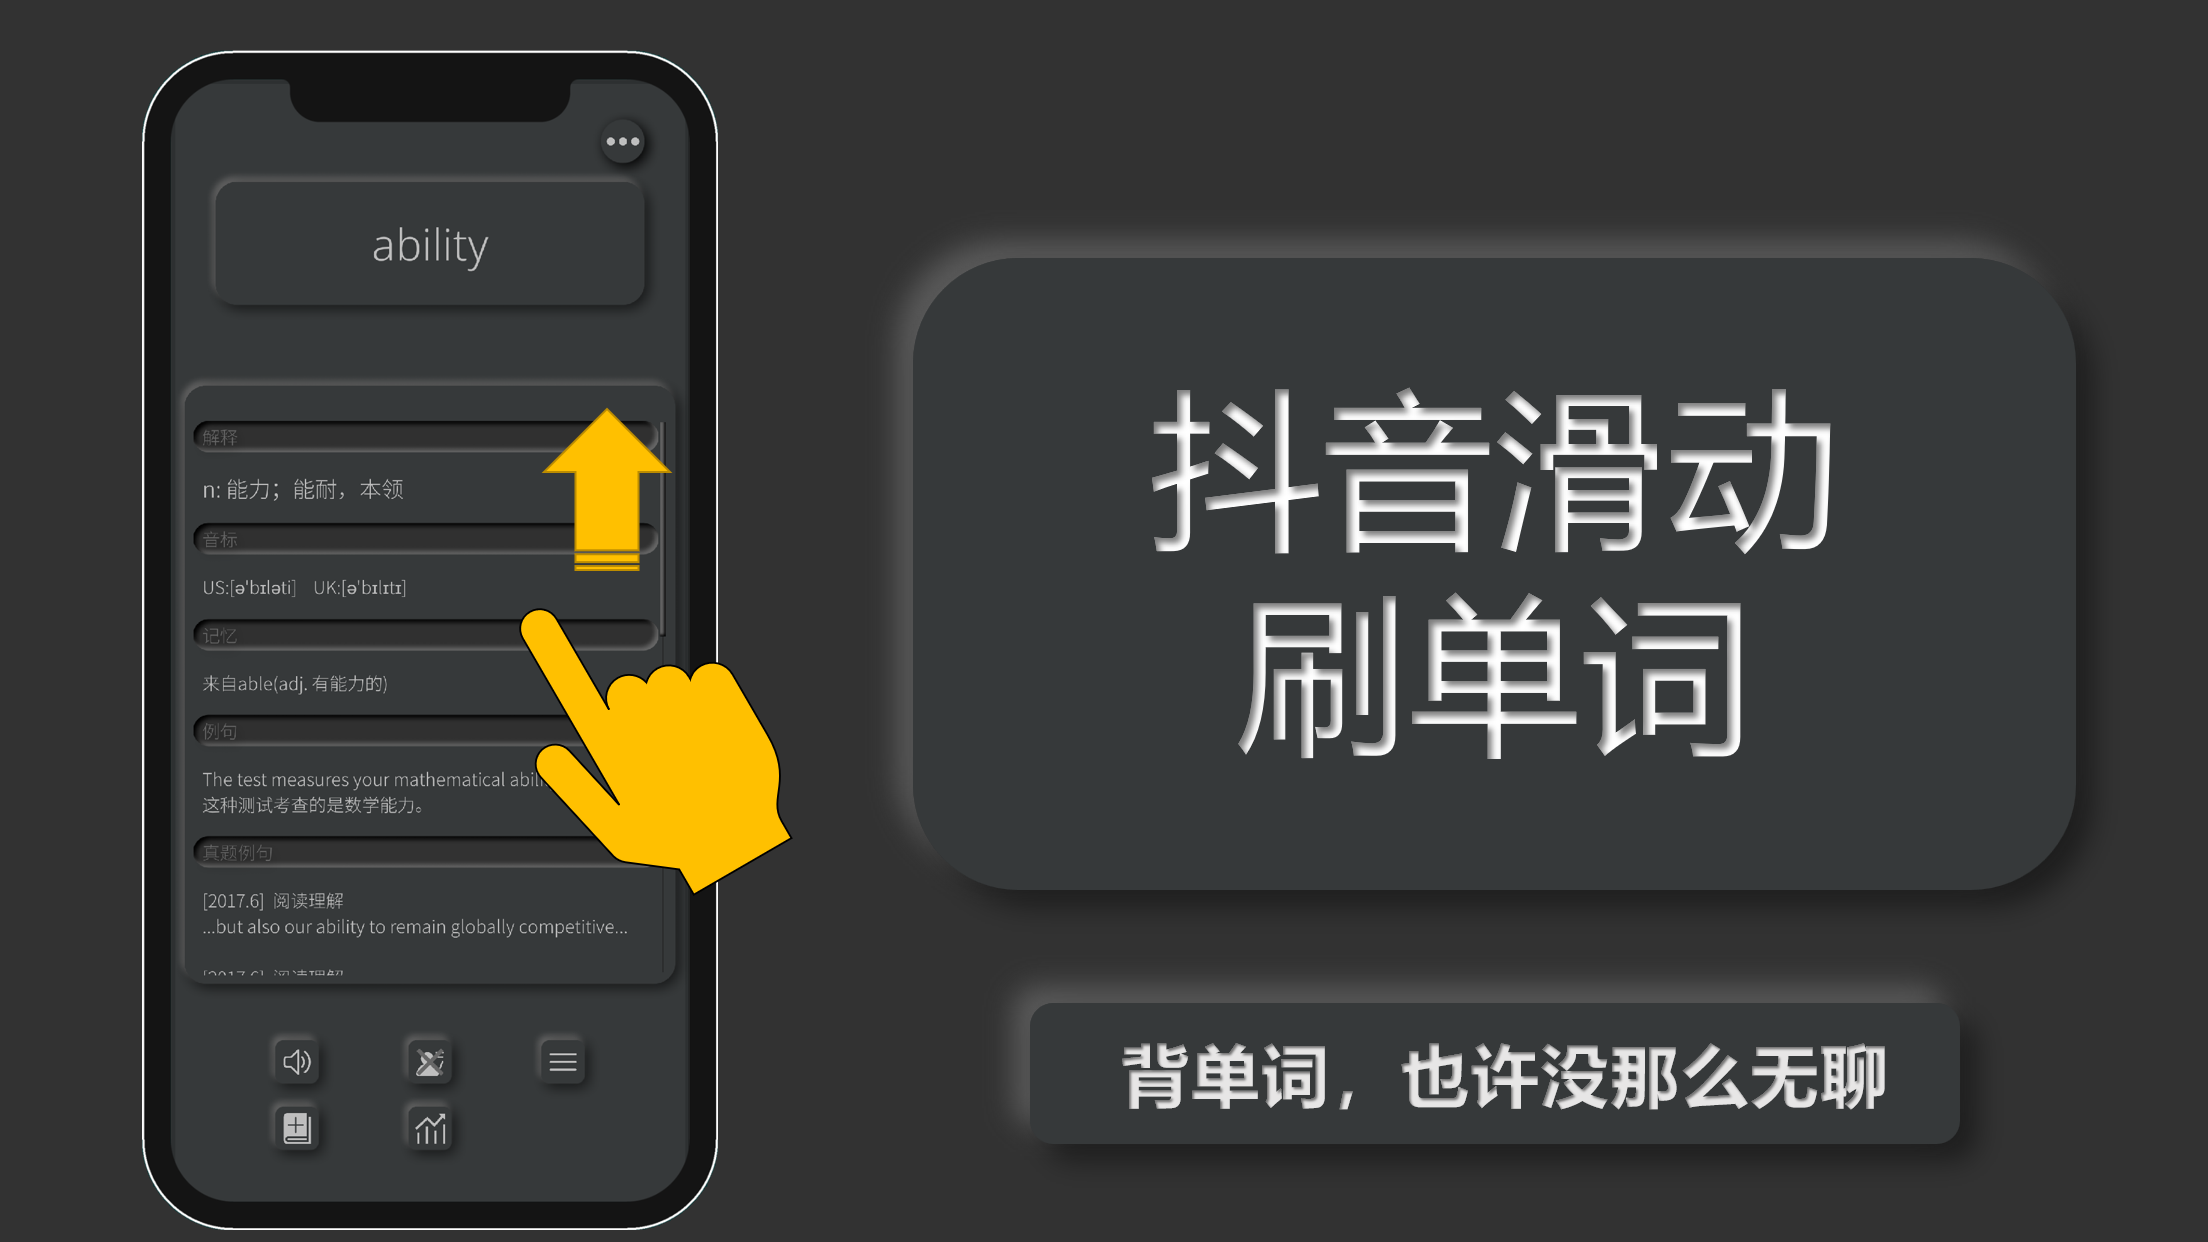
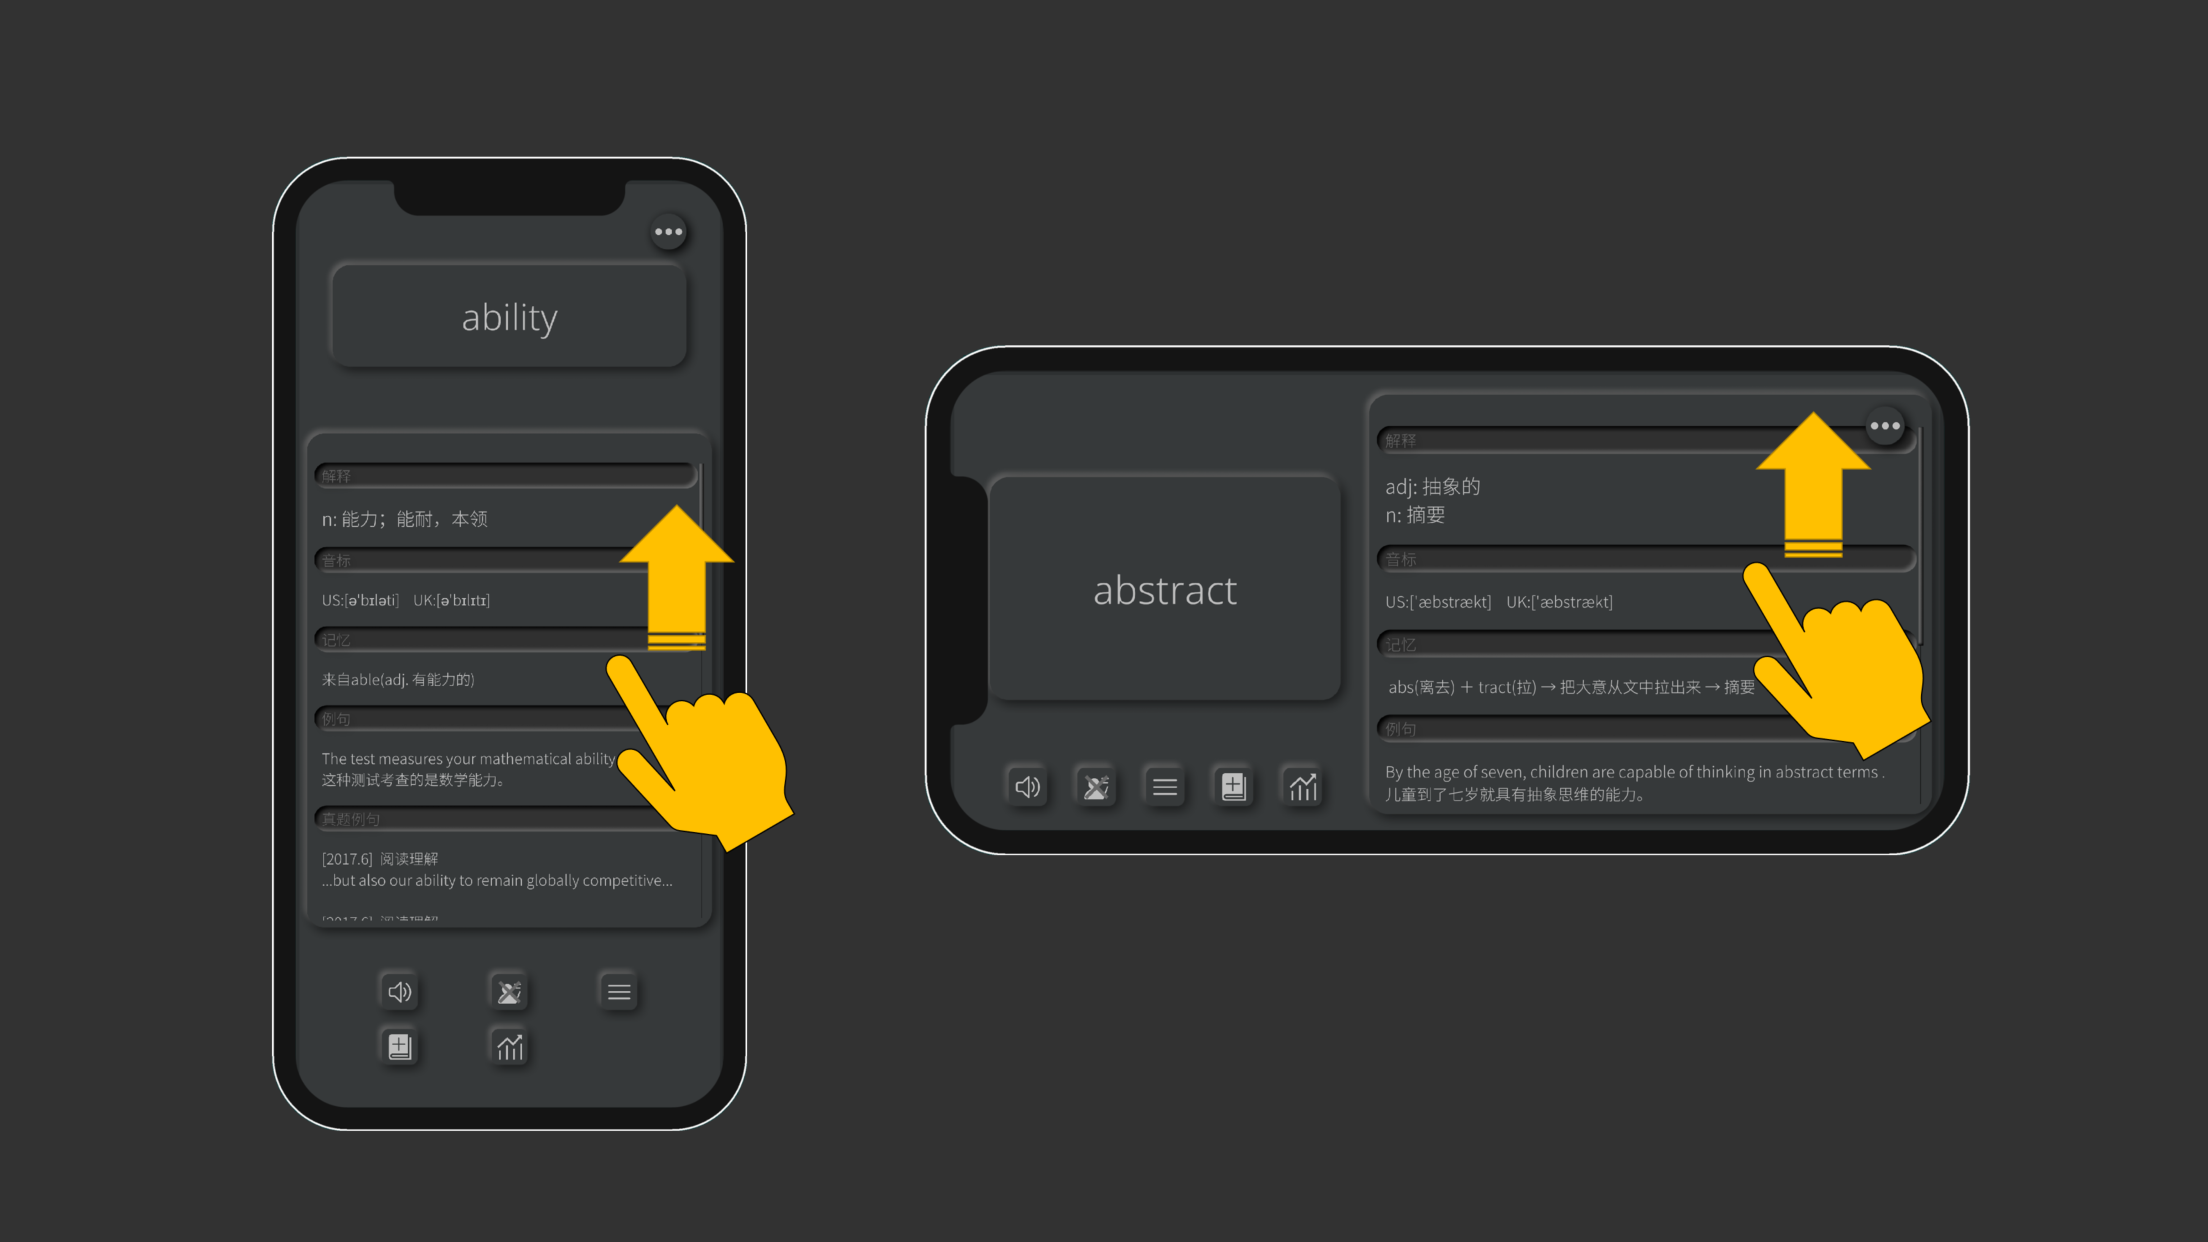
0

diff --git a/kuai/index.html b/kuai/index.html
@@ -44,7 +44,7 @@
         </figure>	
         <h1 class="animated fadeInDown delay-07s">快快背单词</h1>
         <ul class="we-create animated fadeInUp delay-1s">
-        	<li>只为多一种背单词的方式</li>
+        	<li>只为多一种背单词方式</li>
         </ul>
             <a class="link animated fadeInUp delay-1s servicelink" href="#service">Get Started</a>
     </div>
@@ -64,7 +64,7 @@
 
 <section class="main-section" id="service"><!--main-section-start-->
 	<div class="container">
-    	<h2>抖音式 滑动</h2>
+    	<h2>滑动，随心</h2>
     	<h6>滑动节奏，灵动随心</h6>
         <div class="row">
         	<div class="col-lg-4 col-sm-6 wow fadeInLeft delay-05s">
@@ -106,7 +106,7 @@
                 </div>
             </div>
             <figure class="col-lg-8 col-sm-6  text-right wow fadeInUp delay-02s">
-            	<img src="x_img/Flick0.png" alt="">
+            	<img src="x_img/5.5_0.png" alt="">
             </figure>
         
         </div>
